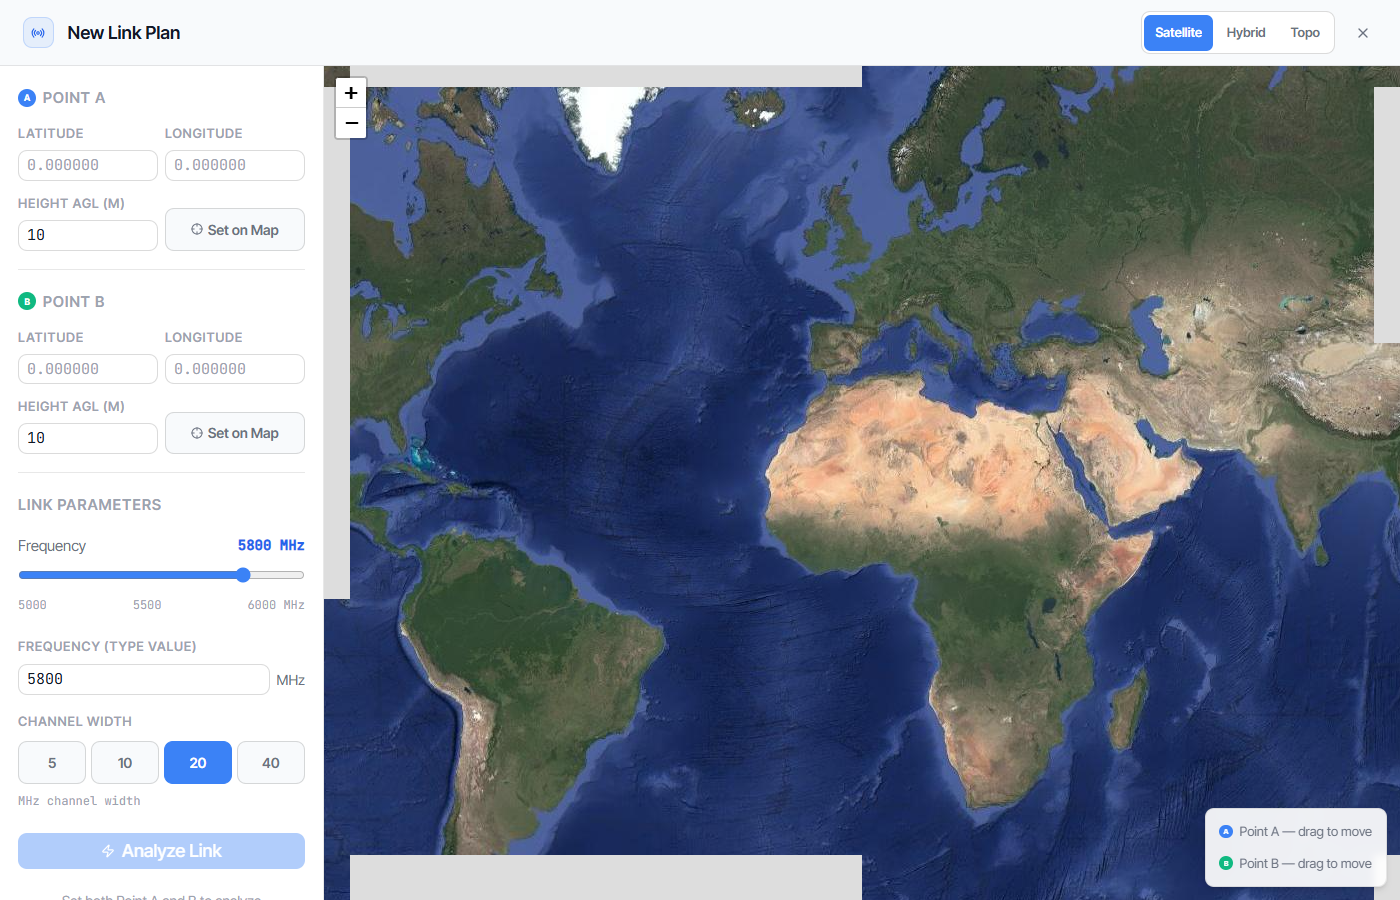
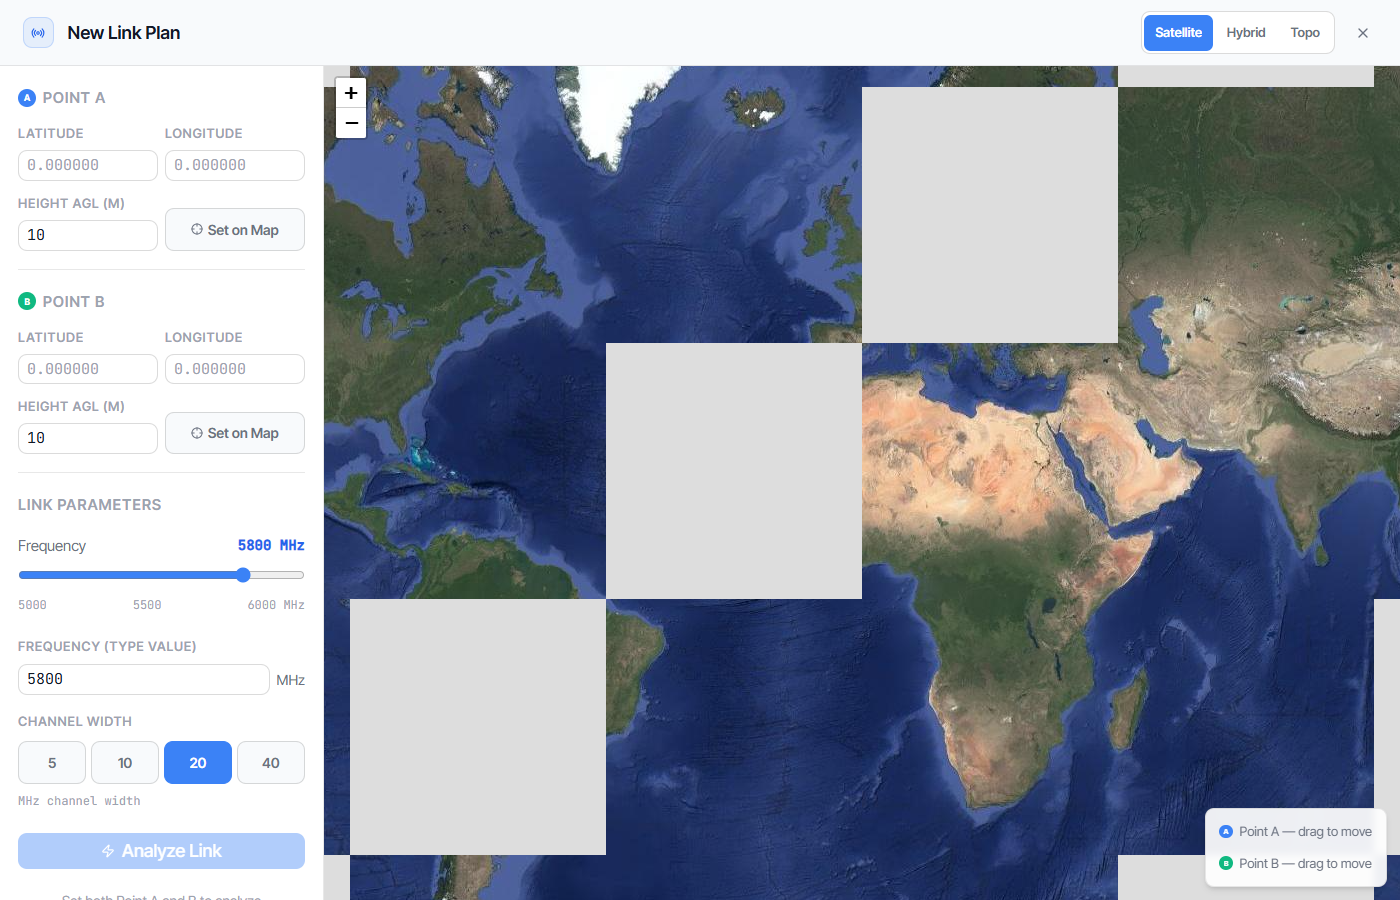
Link Planner 7

Changed region(s): [[0.215, 0.0622, 1.0, 1.0], [0.7986, 0.6533, 1.0, 1.0]]

diff --git a/frontend/src/components/LinkPlanModal.jsx b/frontend/src/components/LinkPlanModal.jsx
@@ -195,17 +195,17 @@ function MapClickHandler({ clickMode, onPlace }) {
   return null
 }
 
-function MapInit({ mapRef, initialPlan }) {
+function MapCaptureRef({ mapRef, initialPlan }) {
   const map = useMap()
+  mapRef.current = map  // synchronous — available immediately after first render
   useEffect(() => {
-    mapRef.current = map
     if (!initialPlan) return
     const la = parseFloat(initialPlan.pointA?.lat), lna = parseFloat(initialPlan.pointA?.lng)
     const lb = parseFloat(initialPlan.pointB?.lat), lnb = parseFloat(initialPlan.pointB?.lng)
     if ([la, lna, lb, lnb].every(v => !isNaN(v) && isFinite(v))) {
       map.fitBounds([[la, lna], [lb, lnb]], { padding: [70, 70], maxZoom: 15 })
     }
-  }, [map]) // eslint-disable-line
+  }, []) // eslint-disable-line
   return null
 }
 
@@ -319,27 +319,28 @@ export default function LinkPlanModal({ onClose, onSave, initialPlan }) {
   const [tile, setTile]           = useState('satellite')
   const [profileCollapsed, setProfileCollapsed] = useState(false)
 
-  const mapRef   = useRef(null)
-  const panTimer = useRef(null)
+  const mapRef = useRef(null)
 
-  const panToCoords = useCallback((aLat, aLng, bLat, bLng) => {
-    clearTimeout(panTimer.current)
-    panTimer.current = setTimeout(() => {
+  useEffect(() => {
+    const t = setTimeout(() => {
       const map = mapRef.current
       if (!map) return
-      const la = parseFloat(aLat), lna = parseFloat(aLng)
-      const lb = parseFloat(bLat), lnb = parseFloat(bLng)
-      const aOk = !isNaN(la) && !isNaN(lna)
-      const bOk = !isNaN(lb) && !isNaN(lnb)
-      if (aOk && bOk) {
-        map.flyToBounds([[la, lna], [lb, lnb]], { padding: [70, 70], maxZoom: 15 })
-      } else if (aOk) {
-        map.flyTo([la, lna], Math.max(map.getZoom(), 13))
-      } else if (bOk) {
-        map.flyTo([lb, lnb], Math.max(map.getZoom(), 13))
-      }
-    }, 350)
-  }, [])
+      const la = parseFloat(ptA.lat), lna = parseFloat(ptA.lng)
+      const lb = parseFloat(ptB.lat), lnb = parseFloat(ptB.lng)
+      const aOk = !isNaN(la) && isFinite(la) && !isNaN(lna) && isFinite(lna)
+      const bOk = !isNaN(lb) && isFinite(lb) && !isNaN(lnb) && isFinite(lnb)
+      try {
+        if (aOk && bOk) {
+          map.fitBounds([[la, lna], [lb, lnb]], { padding: [70, 70], maxZoom: 15 })
+        } else if (aOk) {
+          map.setView([la, lna], Math.max(map.getZoom() || 3, 13))
+        } else if (bOk) {
+          map.setView([lb, lnb], Math.max(map.getZoom() || 3, 13))
+        }
+      } catch { /* map may not be ready yet */ }
+    }, 400)
+    return () => clearTimeout(t)
+  }, [ptA.lat, ptA.lng, ptB.lat, ptB.lng])
 
   const hasA = !isNaN(parseFloat(ptA.lat)) && !isNaN(parseFloat(ptA.lng))
   const hasB = !isNaN(parseFloat(ptB.lat)) && !isNaN(parseFloat(ptB.lng))
@@ -490,13 +491,6 @@ export default function LinkPlanModal({ onClose, onSave, initialPlan }) {
               onCoordChange={(field, val) => {
                 setPtA(p => ({ ...p, [field]: val }))
                 setResults(null)
-                if (field !== 'height') {
-                  panToCoords(
-                    field === 'lat' ? val : ptA.lat,
-                    field === 'lng' ? val : ptA.lng,
-                    ptB.lat, ptB.lng,
-                  )
-                }
               }}
               onToggleClick={() => setClickMode(clickMode === 'A' ? null : 'A')}
             />
@@ -512,13 +506,6 @@ export default function LinkPlanModal({ onClose, onSave, initialPlan }) {
               onCoordChange={(field, val) => {
                 setPtB(p => ({ ...p, [field]: val }))
                 setResults(null)
-                if (field !== 'height') {
-                  panToCoords(
-                    ptA.lat, ptA.lng,
-                    field === 'lat' ? val : ptB.lat,
-                    field === 'lng' ? val : ptB.lng,
-                  )
-                }
               }}
               onToggleClick={() => setClickMode(clickMode === 'B' ? null : 'B')}
             />
@@ -723,7 +710,7 @@ export default function LinkPlanModal({ onClose, onSave, initialPlan }) {
             >
               <TileLayer url={tileConf.url} attribution={tileConf.attr} subdomains={tileConf.subdomains ?? 'abc'} />
               <MapClickHandler clickMode={clickMode} onPlace={handlePlace} />
-              <MapInit mapRef={mapRef} initialPlan={initialPlan} />
+              <MapCaptureRef mapRef={mapRef} initialPlan={initialPlan} />
 
               {hasA && (
                 <Marker